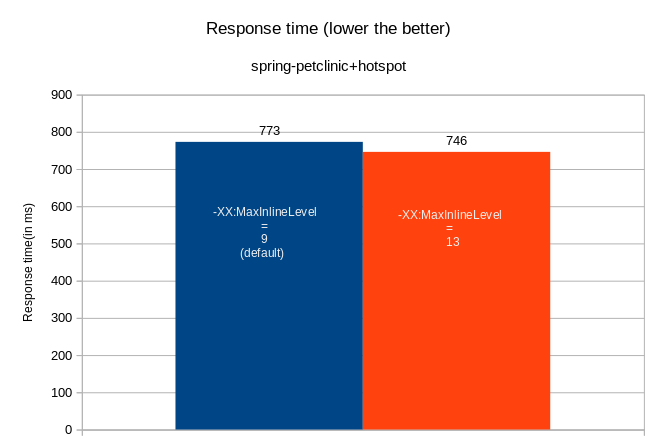
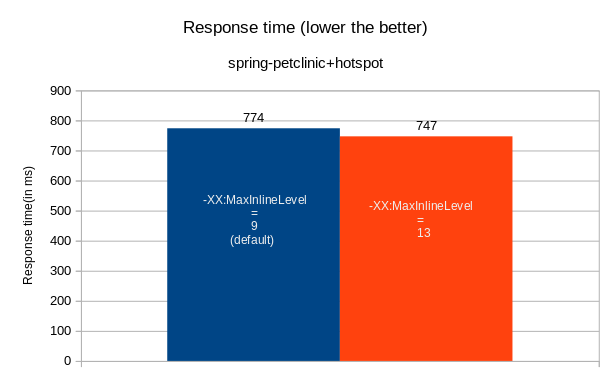
petclinic benchmark results data

diff --git a/spring-petclinic/tunables-maxinlinelevel/README.md b/spring-petclinic/tunables-maxinlinelevel/README.md
@@ -13,3 +13,5 @@ CPU_LIMIT=3.5
 MEM_LIMIT=1024M
 
 ![Responsetime](responsetime.png)
+
+Above graph comparison is based on [experiment-10](https://github.com/kruize/autotune-results/tree/main/spring-petclinic/tunables-maxinlinelevel/experiment-10) data.
